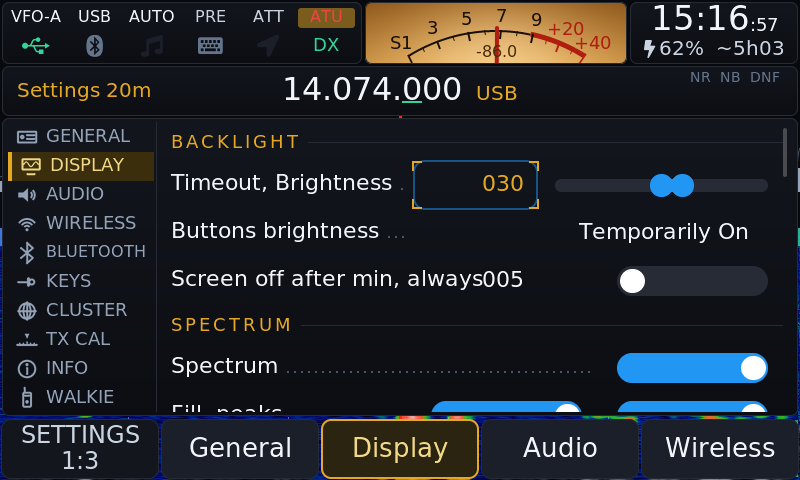
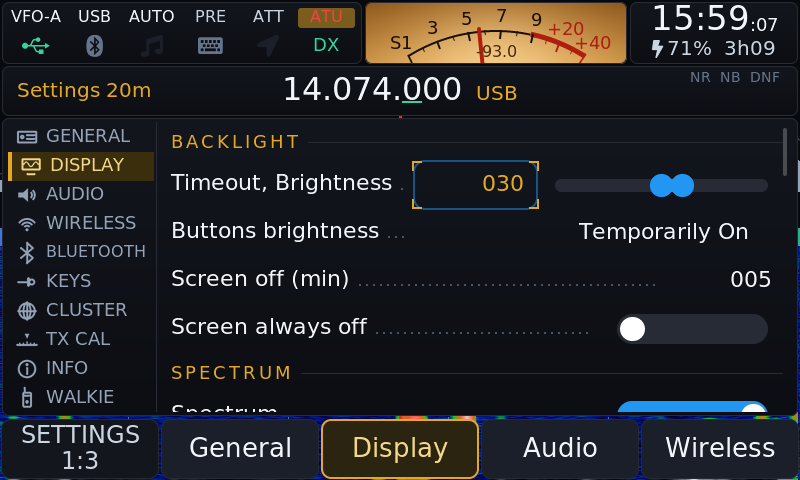
Settings: notes wrap in their columns, screen off on two rows
The note beside a 3-column control ran off the card ("listen only: tune and
ke", "a browser types the code to operate"): it now wraps to two lines in its
own columns. "Screen off after min, always" ran into its minutes ("always005"):
Screen off (min) and Screen always off are two rows now. The two screenshots
retaken.

diff --git a/src/settings_window.cpp b/src/settings_window.cpp
@@ -658,10 +658,14 @@ static uint8_t make_backlight(uint8_t row) {
     row++;
 
     /* The screen dark after so many minutes without a key or knob (0: never), or always: the
-     * radio run from the knob or a browser, POWER shows the screen for a while */
-    wl_row_label(row, "Screen off after min, always");
+     * radio run from the knob or a browser, POWER shows the screen for a while. Two rows: one
+     * label for both ran into the minutes */
+    wl_row_label(row, "Screen off (min)");
     obj = row_spin(row, 1, 2, SMALL_2, params.screen_off_min, 0, 120, 3);
     lv_obj_add_event_cb(obj, bl_blank_cb, LV_EVENT_VALUE_CHANGED, NULL);
+    row++;
+
+    wl_row_label(row, "Screen always off");
     row_switch(row, 4, 3, SMALL_3, params.screen_off_always, bl_always_cb, NULL);
     return row + 1;
 }
@@ -1567,10 +1571,12 @@ static lv_obj_t * wl_button(uint8_t row, const char *text, lv_event_cb_t cb) {
     return obj;
 }
 
-/* Note to the right of a 3-column control */
+/* Note to the right of a 3-column control: two lines in its own columns, a longer one ran off the card */
 static lv_obj_t * wl_note(uint8_t row) {
     lv_obj_t *obj = wl_label(grid, theme_shape.vision ? &sony_18 : &sony_20, theme_hex(TC_text_dim), 0);   /* one size up: two would overflow */
 
+    lv_obj_set_width(obj, SMALL_3);
+    lv_label_set_long_mode(obj, LV_LABEL_LONG_WRAP);
     lv_obj_set_grid_cell(obj, LV_GRID_ALIGN_START, 4, 3, LV_GRID_ALIGN_CENTER, row, 1);
     return obj;
 }

diff --git a/docs/MANUAL.md b/docs/MANUAL.md
@@ -424,7 +424,7 @@ Per band S-meter cal: see [S-meter](#s-meter). TCI SERVER: see
 
 | Card | Options |
 |---|---|
-| BACKLIGHT | timeout and brightness, buttons brightness (Always Off, Always On, Temporarily On), Screen off after (minutes without a key or knob, 0 never; the key that wakes it does nothing else), Always off (the screen stays dark for a radio run from the VFO-Knob or a browser; POWER shows it for the blank time, a minute at least) |
+| BACKLIGHT | timeout and brightness, buttons brightness (Always Off, Always On, Temporarily On), Screen off (min) (minutes without a key or knob, 0 never; the key that wakes it does nothing else), Screen always off (the screen stays dark for a radio run from the VFO-Knob or a browser; POWER shows it for the blank time, a minute at least) |
 | SPECTRUM | Spectrum; with it on Fill, Peaks, Fill gradient, Filter colour, Height (see [Waterfall](#waterfall)) |
 | WATERFALL | see [Waterfall](#waterfall) |
 | MAIN SCREEN | Band plan, Cluster spots, Cluster column, Broadcast names, S-meter type, S-meter colours, Needle lamp |
